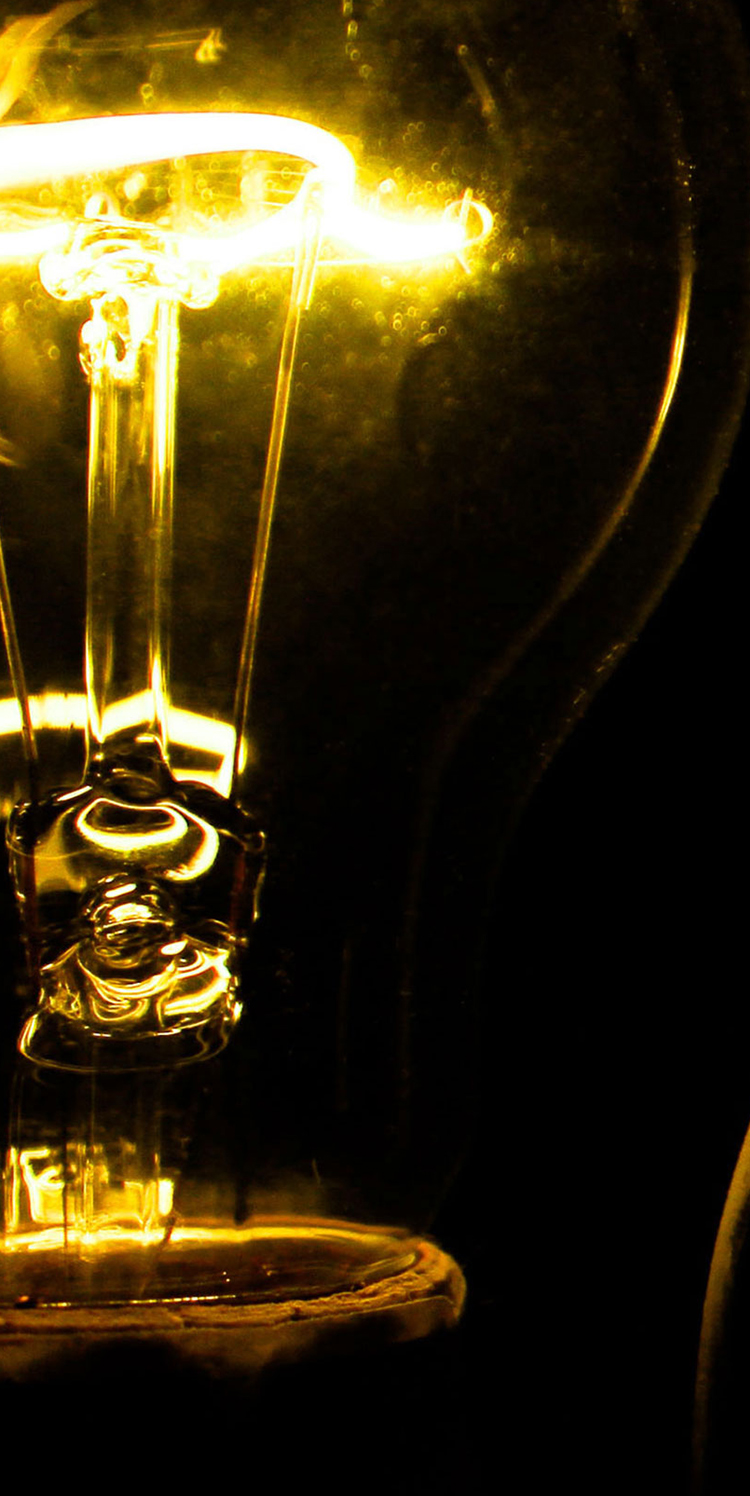
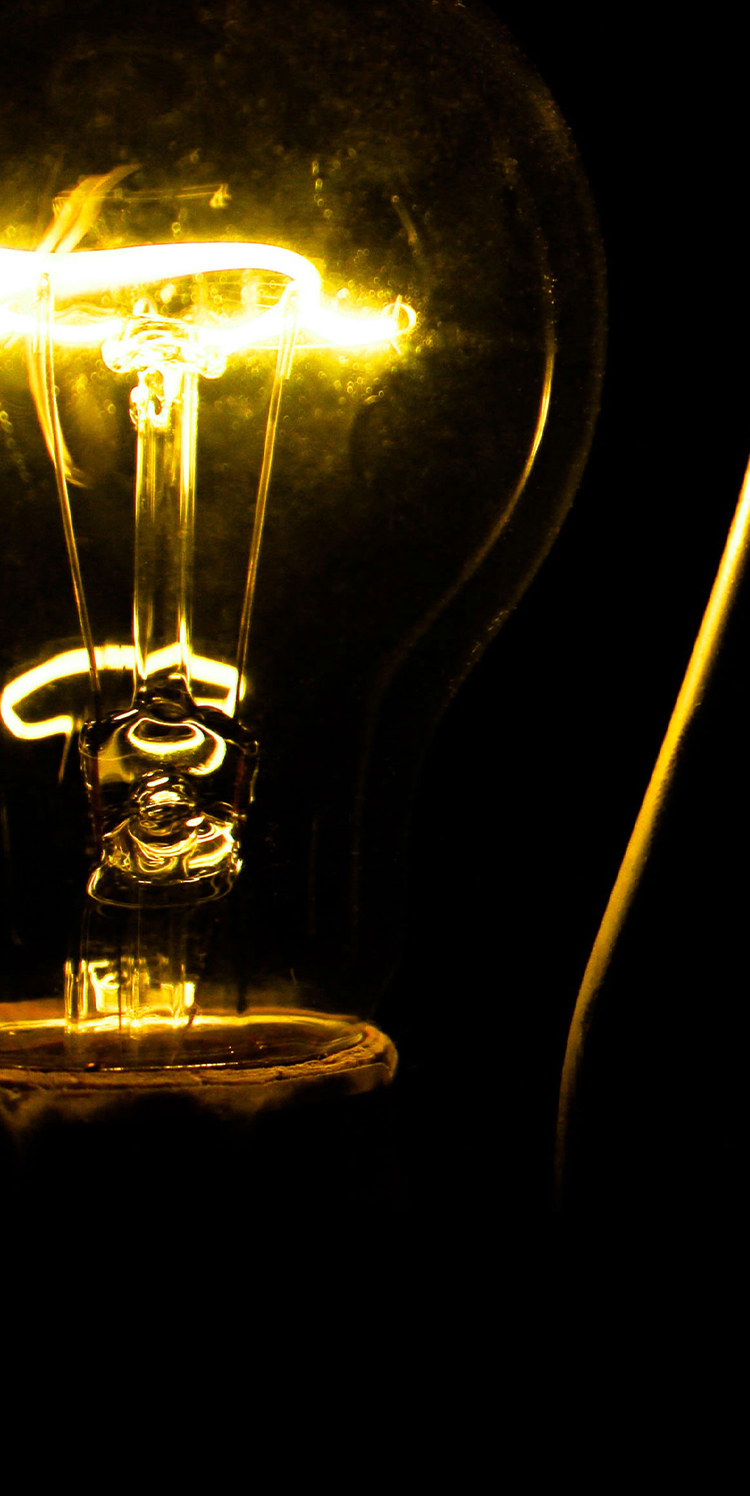
Swapping Mobile Hero

diff --git a/css/style.css b/css/style.css
@@ -1,1 +1,1 @@
-html{box-sizing:border-box;font-size:62.5%;overflow-x:hidden}@media only screen and (max-width: 75em){html{font-size:56.25%}}@media only screen and (max-width: 56.25em){html{font-size:50%}}*,*::before,*::after{box-sizing:inherit}::selection{background:#a7a7a7}body{font-family:'Montserrat', sans-serif;font-weight:400;line-height:1.6;color:#f5f5f7;background-color:#000;overflow-x:hidden}body,h1,h2,h3,h4,h5,h6,p,ol,ul{margin:0;padding:0}img{max-width:100%;height:auto}section{padding:0 8rem;margin:10rem auto 0 auto;position:relative;max-width:1920px;font-size:1.8rem}@media only screen and (max-width: 100em){section{padding:0 4rem}}@media only screen and (max-width: 56.25em){section{padding:0 3rem}}p:not(:last-child){margin-bottom:2rem}.link{color:#f5f5f7;text-decoration:none;transition:all .3s;position:relative}.link::after{content:"";display:block;position:absolute;width:100%;bottom:0;border-bottom:1.25px solid #fdcd05;transform:scaleX(0);transition:all .25s ease-in-out}@media only screen and (max-width: 75em){.link::after{left:0}}.link:hover::after{transform:scaleX(1)}.heading{text-align:center;text-transform:uppercase}.heading--primary{font-weight:100;font-size:7.2rem}@media only screen and (max-width: 87.5em){.heading--primary{line-height:1.2;margin-bottom:2rem}}.heading--secondary{font-weight:300;font-size:2.4rem}.heading--tertiary{font-weight:200;font-size:3.6rem;position:relative;padding:2rem}.heading--tertiary::after{content:"";position:absolute;bottom:0;left:50%;transform:translateX(-50%);width:10rem;text-align:center;border-bottom:1px solid #666;padding-bottom:2rem;display:inline-block}.heading--quaternary{text-align:left;font-weight:200;font-size:2.4rem}.header{height:100vh;max-width:1920px;margin:0 auto;padding:0 2rem;background-image:url(/Img/hero-main.jpg);background-size:cover;background-position:bottom left;background-repeat:no-repeat;overflow-x:hidden;animation:fade-in 1s ease-out}@media (-webkit-min-device-pixel-ratio: 2), (min-resolution: 192dpi){.header{background-image:url(/Img/hero-main@2x.jpg)}}@media only screen and (max-width: 75em){.header{background-image:linear-gradient(to bottom, rgba(0,0,0,0.6), rgba(0,0,0,0.6)),url(/Img/hero-main-mobile.jpg)}}.header__wrapper{width:60%;height:100%;margin-left:auto;display:flex;flex-direction:column;justify-content:flex-start}@media only screen and (max-width: 87.5em){.header__wrapper{width:57.5%}}@media only screen and (max-width: 75em){.header__wrapper{width:100%}}.header__text{flex:0 0 75%;z-index:10;display:flex;flex-direction:column;justify-content:center;align-items:center;opacity:0;animation:fade-in-up .75s .3s ease-in-out forwards}.header__heading{flex:1 0 100%;align-self:center}.nav{text-align:right;flex:0 0 10%;display:flex;justify-content:center;align-items:center;animation:fade-in 1s ease-out}.nav__list{flex:0 0 60%;display:flex;justify-content:space-around;list-style-type:none;padding:0;transition:all .4s ease-in-out}@media only screen and (max-width: 100em){.nav__list{flex:0 0 75%}}@media only screen and (max-width: 87.5em){.nav__list{flex:0 0 90%}}@media only screen and (max-width: 75em){.nav__list{z-index:20;flex-direction:column;justify-content:center;background-color:rgba(62,62,62,0.975);position:fixed;width:100%;align-self:stretch;height:0;overflow:hidden;visibility:hidden;opacity:0}}.nav__item{font-size:2rem;font-weight:300;text-transform:uppercase}@media only screen and (max-width: 75em){.nav__item{text-align:center;width:100%;margin:1.25rem 0;font-size:3.5rem}}.nav__link{padding-bottom:10px}.nav__icon{display:none;fill:#fff;background-color:transparent;border:none;padding:0;color:#fff;z-index:25;cursor:pointer}.nav__icon:active{outline:none}.nav__icon:hover{fill:rgba(245,245,247,0.75)}@media only screen and (max-width: 75em){.nav__icon{display:flex;flex-direction:column;justify-content:center}}.nav__icon--open{position:absolute;top:3.3rem;right:4.65rem;width:2.75rem;height:2.75rem}@media only screen and (max-width: 56.25em){.nav__icon--open{top:3.25rem;right:3.65rem}}.nav__icon--open svg{transition:fill .2s}.nav__icon--close{position:fixed;width:3.7rem;height:3.7rem;right:4rem;top:3.25rem;visibility:hidden}@media only screen and (max-width: 56.25em){.nav__icon--close{top:3.25rem;right:3.1rem}}.nav__icon--close line{stroke:currentColor;stroke-width:5;transition:stroke .2s}.nav__icon--close:hover line{stroke:rgba(245,245,247,0.75)}@media only screen and (max-width: 37.5em){.section--story{margin-top:15rem}}.story{padding:4rem 0;display:flex;flex-flow:row wrap;align-items:center;justify-content:center}.story__text,.story__roc{padding:3rem}@media only screen and (max-width: 56.25em){.story__text,.story__roc{padding:3rem 0}}.story__text{flex:0 0 45%}@media only screen and (max-width: 87.5em){.story__text{flex:0 0 50%}}@media only screen and (max-width: 56.25em){.story__text{flex:0 0 100%}}.story__roc{flex:0 0 28%;text-align:center}@media only screen and (max-width: 87.5em){.story__roc{flex:0 0 37%}}@media only screen and (max-width: 56.25em){.story__roc{flex:0 0 100%}}.story__roc p{font-size:2.4rem;padding:2.5rem 5rem;font-weight:200}@media only screen and (max-width: 56.25em){.story__roc p{width:45%;margin-left:auto;margin-right:auto}}@media only screen and (max-width: 37.5em){.story__roc p{width:90%}}.story__roc span.zero{display:inline-block;font-weight:100;font-size:20rem;line-height:.8;margin-bottom:1.5rem}.story__roc span.twenty{font-weight:500}.section--services{background-image:url(/Img/our-services-bg.jpg);background-size:cover;background-position:top center;background-repeat:no-repeat;z-index:10}@media only screen and (max-width: 56.25em){.section--services{padding:0;background-position:top right}}@media only screen and (max-width: 37.5em){.section--services{background-image:url(/Img/our-services-bg-mobile.jpg)}}.services{padding:4rem 4rem 6rem;width:36%;margin-left:10%;margin-right:auto;background-image:linear-gradient(to bottom, rgba(0,0,0,0.75), rgba(0,0,0,0.75));display:flex;flex-direction:column;justify-content:center}@media only screen and (max-width: 87.5em){.services{width:43%;margin-left:8%}}@media only screen and (max-width: 75em){.services{width:50%;margin-left:4%}}@media only screen and (max-width: 56.25em){.services{width:100%;margin-left:0;padding:4rem 3rem 8rem}}.services p:first-of-type{padding-top:5rem}.section--staff{margin-top:6rem}.staff{padding:5rem 0 4rem 0;display:flex;flex-flow:row wrap;justify-content:space-around}@supports (justify-content: space-evenly){.staff{justify-content:space-evenly}}@media only screen and (max-width: 56.25em){.staff{padding:5rem 0 4rem}}.staff__employee,.success__message{padding:3.75rem;display:flex;flex-direction:column;align-items:center;flex:0 0 30%;border-radius:5px;box-shadow:inset 0 2px 2px rgba(255,255,255,0.1),0 2px 0 rgba(255,255,255,0.2),inset 0 0 1.5rem rgba(255,255,255,0.1);background-image:linear-gradient(to bottom, rgba(255,255,255,0.06), rgba(255,255,255,0.06))}@media only screen and (max-width: 56.25em){.staff__employee:not(:last-child),.success__message:not(:last-child){margin-bottom:6rem}}@media only screen and (max-width: 100em){.staff__employee,.success__message{flex:0 0 40%}}@media only screen and (max-width: 56.25em){.staff__employee,.success__message{flex:0 0 100%;padding:3.5rem 2rem}}.staff__image{border-radius:50%;width:15rem;height:15rem;margin-bottom:2rem;border:1rem solid transparent;box-shadow:0 0 0 1.5px #666}.staff__title{position:relative;text-align:center;padding-bottom:2rem}.staff__title::after{content:"";position:absolute;bottom:0;left:50%;transform:translateX(-50%);width:7rem;text-align:center;border-bottom:1px solid #666;padding-bottom:2rem;display:inline-block}.staff__description{max-width:100%}.section--contact{background-image:linear-gradient(110deg, rgba(255,255,255,0.7) 0%, rgba(255,255,255,0.7) 60%, transparent 60.1%),url(/Img/contact-us-bg.jpg);background-size:cover;background-position:right}@media only screen and (max-width: 56.25em){.section--contact{background-image:linear-gradient(110deg, rgba(255,255,255,0.825) 0%, rgba(255,255,255,0.825) 100%),url(/Img/contact-us-bg.jpg);background-position:right center}}.contact{width:50%;padding:4rem}@media only screen and (max-width: 56.25em){.contact{width:100%;padding:1rem 0}}.contact__heading{color:#3e3e3e;font-weight:300;margin-bottom:5.5rem}@media only screen and (max-width: 56.25em){.contact__heading{margin-bottom:3.5rem}}.contact__label{color:#3e3e3e;font-size:2rem;text-transform:uppercase}.contact__input,.contact__textarea{display:block;font-family:'Montserrat', sans-serif;font-size:1.8rem;margin-bottom:4.5rem;padding:1.5rem 2rem;background-color:transparent;border:2px solid #3e3e3e;border-radius:2px;width:100%;max-width:100%;transition:all .3s}.contact__input:focus{outline:none;border-bottom:3px solid #55c57a;box-shadow:0 1rem 2rem rgba(0,0,0,0.1)}.contact__input:focus:invalid{border-bottom:3px solid #ff7730}.contact__textarea{height:15rem;font-family:'Montserrat', sans-serif}.contact__textarea:focus{border:3px solid #3e3e3e;box-shadow:0 1rem 2rem rgba(0,0,0,0.1)}.contact__submit{background-color:transparent;font-family:'Montserrat', sans-serif;padding:1.5rem 6rem;margin-bottom:3rem;border-radius:100px;border:2px solid #3e3e3e;cursor:pointer;text-transform:uppercase;text-align:center;-webkit-appearance:none;transition:all .3s}@media only screen and (max-width: 56.25em){.contact__submit{width:20rem;margin:4rem auto;display:block}}.contact__submit:hover,.contact__submit:active{border:2px solid #666;background-color:#666;color:#f5f5f7;outline:none}.contact__submit:focus{border-radius:0}.success{height:85vh;background-color:#000;text-align:center;display:flex;align-items:center;justify-content:center;padding:2rem}.success__message{animation:fade-in 1s ease-out}.success__link{text-transform:uppercase;padding-bottom:1rem}.nav-active{visibility:visible;opacity:1;height:100vh}.light-streak{z-index:5;position:absolute;animation:fade-in 1s ease-out;width:15rem}@media only screen and (max-width: 56.25em){.light-streak{width:10rem;z-index:0}}@media only screen and (max-width: 37.5em){.light-streak{width:8rem}}.light-streak--1{top:-50rem;right:19rem;transform:rotate(-65deg)}@media only screen and (max-width: 87.5em){.light-streak--1{top:-40rem}}@media only screen and (max-width: 75em){.light-streak--1{right:5rem;top:-25rem}}@media only screen and (max-width: 56.25em){.light-streak--1{right:8rem;top:-20rem}}@media only screen and (max-width: 37.5em){.light-streak--1{right:7rem;top:-25rem}}.light-streak--2{bottom:-20rem;left:-5rem;transform:rotate(-65deg)}@media only screen and (max-width: 87.5em){.light-streak--2{bottom:-25rem;left:-12rem}}@media only screen and (max-width: 56.25em){.light-streak--2{bottom:-15rem;left:12rem}}@media only screen and (max-width: 37.5em){.light-streak--2{bottom:-18rem;left:7rem}}.text-center{text-align:center !important}.fade{transition:opacity .75s ease-in-out, transform .75s ease-in-out, background-color .3s ease-in-out, color .3s ease-in-out, border .3s ease-in-out}.fadeFromTop{opacity:0;transform:translateY(-2rem)}.fadeFromTopVisible{transform:translateY(0);opacity:1}.fadeFromLeft{opacity:0;transform:translateX(-2rem)}.fadeFromLeftVisible{transform:translateX(0);opacity:1}div.fadeDelayShort{transition:opacity .75s .4s ease-in, transform .75s .4s ease-in, background-color .3s ease-in-out, color .3s ease-in-out, border .3s ease-in-out}@media only screen and (max-width: 56.25em){div.fadeDelayShort{transition:opacity .75s ease-in, transform .75s ease-in, background-color .3s ease-in-out, color .3s ease-in-out, border .3s ease-in-out}}div.fadeDelayLong{transition:opacity .75s .6s ease-in, transform .75s .6s ease-in, background-color .3s ease-in-out, color .3s ease-in-out, border .3s ease-in-out}@media only screen and (max-width: 56.25em){div.fadeDelayLong{transition:opacity .75s ease-in, transform .75s ease-in, background-color .3s ease-in-out, color .3s ease-in-out, border .3s ease-in-out}}@keyframes fade-in{0%{opacity:0}100%{opacity:1}}@keyframes fade-in-up{0%{opacity:0;transform:translateY(2rem)}100%{opacity:1;transform:translateY(0)}}.footer{display:flex;flex-direction:column;align-items:center;text-align:center;font-size:1.6rem;padding:4rem}@media only screen and (max-width: 56.25em){.footer{padding:3rem}}.footer__logo{width:17rem;display:block;height:auto;margin-bottom:4rem}.footer__text:not(:last-child){margin-bottom:1rem}.footer__text:last-child{color:rgba(245,245,247,0.6);font-size:1.2rem}
+html{box-sizing:border-box;font-size:62.5%;overflow-x:hidden}@media only screen and (max-width: 75em){html{font-size:56.25%}}@media only screen and (max-width: 56.25em){html{font-size:50%}}*,*::before,*::after{box-sizing:inherit}::selection{background:#a7a7a7}body{font-family:'Montserrat', sans-serif;font-weight:400;line-height:1.6;color:#f5f5f7;background-color:#000;overflow-x:hidden}body,h1,h2,h3,h4,h5,h6,p,ol,ul{margin:0;padding:0}img{max-width:100%;height:auto}section{padding:0 8rem;margin:10rem auto 0 auto;position:relative;max-width:1920px;font-size:1.8rem}@media only screen and (max-width: 100em){section{padding:0 4rem}}@media only screen and (max-width: 56.25em){section{padding:0 3rem}}p:not(:last-child){margin-bottom:2rem}.link{color:#f5f5f7;text-decoration:none;transition:all .3s;position:relative}.link::after{content:"";display:block;position:absolute;width:100%;bottom:0;border-bottom:1.25px solid #fdcd05;transform:scaleX(0);transition:all .25s ease-in-out}@media only screen and (max-width: 75em){.link::after{left:0}}.link:hover::after{transform:scaleX(1)}.heading{text-align:center;text-transform:uppercase}.heading--primary{font-weight:100;font-size:7.2rem}@media only screen and (max-width: 87.5em){.heading--primary{line-height:1.2;margin-bottom:2rem}}.heading--secondary{font-weight:300;font-size:2.4rem}.heading--tertiary{font-weight:200;font-size:3.6rem;position:relative;padding:2rem}.heading--tertiary::after{content:"";position:absolute;bottom:0;left:50%;transform:translateX(-50%);width:10rem;text-align:center;border-bottom:1px solid #666;padding-bottom:2rem;display:inline-block}.heading--quaternary{text-align:left;font-weight:200;font-size:2.4rem}.header{height:100vh;max-width:1920px;margin:0 auto;padding:0 2rem;background-image:url(/Img/hero-main.jpg);background-size:cover;background-position:bottom left;background-repeat:no-repeat;overflow-x:hidden;animation:fade-in 1s ease-out}@media (-webkit-min-device-pixel-ratio: 2), (min-resolution: 192dpi){.header{background-image:url(/Img/hero-main@2x.jpg)}}@media only screen and (max-width: 75em){.header{background-image:linear-gradient(to bottom, rgba(0,0,0,0.6), rgba(0,0,0,0.6)),url(/Img/hero-main-mobile.jpg);background-position:top}}.header__wrapper{width:60%;height:100%;margin-left:auto;display:flex;flex-direction:column;justify-content:flex-start}@media only screen and (max-width: 87.5em){.header__wrapper{width:57.5%}}@media only screen and (max-width: 75em){.header__wrapper{width:100%}}.header__text{flex:0 0 75%;z-index:10;display:flex;flex-direction:column;justify-content:center;align-items:center;opacity:0;animation:fade-in-up .75s .3s ease-in-out forwards}.header__heading{flex:1 0 100%;align-self:center}.nav{text-align:right;flex:0 0 10%;display:flex;justify-content:center;align-items:center;animation:fade-in 1s ease-out}.nav__list{flex:0 0 60%;display:flex;justify-content:space-around;list-style-type:none;padding:0;transition:all .4s ease-in-out}@media only screen and (max-width: 100em){.nav__list{flex:0 0 75%}}@media only screen and (max-width: 87.5em){.nav__list{flex:0 0 90%}}@media only screen and (max-width: 75em){.nav__list{z-index:20;flex-direction:column;justify-content:center;background-color:rgba(62,62,62,0.975);position:fixed;width:100%;align-self:stretch;height:0;overflow:hidden;visibility:hidden;opacity:0}}.nav__item{font-size:2rem;font-weight:300;text-transform:uppercase}@media only screen and (max-width: 75em){.nav__item{text-align:center;width:100%;margin:1.25rem 0;font-size:3.5rem}}.nav__link{padding-bottom:10px}.nav__icon{display:none;fill:#fff;background-color:transparent;border:none;padding:0;color:#fff;z-index:25;cursor:pointer}.nav__icon:active{outline:none}.nav__icon:hover{fill:rgba(245,245,247,0.75)}@media only screen and (max-width: 75em){.nav__icon{display:flex;flex-direction:column;justify-content:center}}.nav__icon--open{position:absolute;top:3.3rem;right:4.65rem;width:2.75rem;height:2.75rem}@media only screen and (max-width: 56.25em){.nav__icon--open{top:3.25rem;right:3.65rem}}.nav__icon--open svg{transition:fill .2s}.nav__icon--close{position:fixed;width:3.7rem;height:3.7rem;right:4rem;top:3.25rem;visibility:hidden}@media only screen and (max-width: 56.25em){.nav__icon--close{top:3.25rem;right:3.1rem}}.nav__icon--close line{stroke:currentColor;stroke-width:5;transition:stroke .2s}.nav__icon--close:hover line{stroke:rgba(245,245,247,0.75)}.story{padding:4rem 0;display:flex;flex-flow:row wrap;align-items:center;justify-content:center}.story__text,.story__roc{padding:3rem}@media only screen and (max-width: 56.25em){.story__text,.story__roc{padding:3rem 0}}.story__text{flex:0 0 45%}@media only screen and (max-width: 87.5em){.story__text{flex:0 0 50%}}@media only screen and (max-width: 56.25em){.story__text{flex:0 0 100%}}.story__roc{flex:0 0 28%;text-align:center}@media only screen and (max-width: 87.5em){.story__roc{flex:0 0 37%}}@media only screen and (max-width: 56.25em){.story__roc{flex:0 0 100%}}.story__roc p{font-size:2.4rem;padding:2.5rem 5rem;font-weight:200}@media only screen and (max-width: 56.25em){.story__roc p{width:45%;margin-left:auto;margin-right:auto}}@media only screen and (max-width: 37.5em){.story__roc p{width:90%}}.story__roc span.zero{display:inline-block;font-weight:100;font-size:20rem;line-height:.8;margin-bottom:1.5rem}.story__roc span.twenty{font-weight:500}.section--services{background-image:url(/Img/our-services-bg.jpg);background-size:cover;background-position:top center;background-repeat:no-repeat;z-index:10}@media only screen and (max-width: 56.25em){.section--services{padding:0;background-position:top right}}@media only screen and (max-width: 37.5em){.section--services{background-image:url(/Img/our-services-bg-mobile.jpg)}}.services{padding:4rem 4rem 6rem;width:36%;margin-left:10%;margin-right:auto;background-image:linear-gradient(to bottom, rgba(0,0,0,0.75), rgba(0,0,0,0.75));display:flex;flex-direction:column;justify-content:center}@media only screen and (max-width: 87.5em){.services{width:43%;margin-left:8%}}@media only screen and (max-width: 75em){.services{width:50%;margin-left:4%}}@media only screen and (max-width: 56.25em){.services{width:100%;margin-left:0;padding:4rem 3rem 8rem}}.services p:first-of-type{padding-top:5rem}.section--staff{margin-top:6rem}.staff{padding:5rem 0 4rem 0;display:flex;flex-flow:row wrap;justify-content:space-around}@supports (justify-content: space-evenly){.staff{justify-content:space-evenly}}@media only screen and (max-width: 56.25em){.staff{padding:5rem 0 4rem}}.staff__employee,.success__message{padding:3.75rem;display:flex;flex-direction:column;align-items:center;flex:0 0 30%;border-radius:5px;box-shadow:inset 0 2px 2px rgba(255,255,255,0.1),0 2px 0 rgba(255,255,255,0.2),inset 0 0 1.5rem rgba(255,255,255,0.1);background-image:linear-gradient(to bottom, rgba(255,255,255,0.06), rgba(255,255,255,0.06))}@media only screen and (max-width: 56.25em){.staff__employee:not(:last-child),.success__message:not(:last-child){margin-bottom:6rem}}@media only screen and (max-width: 100em){.staff__employee,.success__message{flex:0 0 40%}}@media only screen and (max-width: 56.25em){.staff__employee,.success__message{flex:0 0 100%;padding:3.5rem 2rem}}.staff__image{border-radius:50%;width:15rem;height:15rem;margin-bottom:2rem;border:1rem solid transparent;box-shadow:0 0 0 1.5px #666}.staff__title{position:relative;text-align:center;padding-bottom:2rem}.staff__title::after{content:"";position:absolute;bottom:0;left:50%;transform:translateX(-50%);width:7rem;text-align:center;border-bottom:1px solid #666;padding-bottom:2rem;display:inline-block}.staff__description{max-width:100%}.section--contact{background-image:linear-gradient(110deg, rgba(255,255,255,0.7) 0%, rgba(255,255,255,0.7) 60%, transparent 60.1%),url(/Img/contact-us-bg.jpg);background-size:cover;background-position:right}@media only screen and (max-width: 56.25em){.section--contact{background-image:linear-gradient(110deg, rgba(255,255,255,0.825) 0%, rgba(255,255,255,0.825) 100%),url(/Img/contact-us-bg.jpg);background-position:right center}}.contact{width:50%;padding:4rem}@media only screen and (max-width: 56.25em){.contact{width:100%;padding:1rem 0}}.contact__heading{color:#3e3e3e;font-weight:300;margin-bottom:5.5rem}@media only screen and (max-width: 56.25em){.contact__heading{margin-bottom:3.5rem}}.contact__label{color:#3e3e3e;font-size:2rem;text-transform:uppercase}.contact__input,.contact__textarea{display:block;font-family:'Montserrat', sans-serif;font-size:1.8rem;margin-bottom:4.5rem;padding:1.5rem 2rem;background-color:transparent;border:2px solid #3e3e3e;border-radius:2px;width:100%;max-width:100%;transition:all .3s}.contact__input:focus{outline:none;border-bottom:3px solid #55c57a;box-shadow:0 1rem 2rem rgba(0,0,0,0.1)}.contact__input:focus:invalid{border-bottom:3px solid #ff7730}.contact__textarea{height:15rem;font-family:'Montserrat', sans-serif}.contact__textarea:focus{border:3px solid #3e3e3e;box-shadow:0 1rem 2rem rgba(0,0,0,0.1)}.contact__submit{background-color:transparent;font-family:'Montserrat', sans-serif;padding:1.5rem 6rem;margin-bottom:3rem;border-radius:100px;border:2px solid #3e3e3e;cursor:pointer;text-transform:uppercase;text-align:center;-webkit-appearance:none;transition:all .3s}@media only screen and (max-width: 56.25em){.contact__submit{width:20rem;margin:4rem auto;display:block}}.contact__submit:hover,.contact__submit:active{border:2px solid #666;background-color:#666;color:#f5f5f7;outline:none}.contact__submit:focus{border-radius:0}.success{height:85vh;background-color:#000;text-align:center;display:flex;align-items:center;justify-content:center;padding:2rem}.success__message{animation:fade-in 1s ease-out}.success__link{text-transform:uppercase;padding-bottom:1rem}.nav-active{visibility:visible;opacity:1;height:100vh}.light-streak{z-index:5;position:absolute;animation:fade-in 1s ease-out;width:15rem}@media only screen and (max-width: 56.25em){.light-streak{width:10rem;z-index:0}}@media only screen and (max-width: 37.5em){.light-streak{width:8rem}}.light-streak--1{top:-50rem;right:19rem;transform:rotate(-65deg)}@media only screen and (max-width: 87.5em){.light-streak--1{top:-40rem}}@media only screen and (max-width: 75em){.light-streak--1{right:5rem;top:-25rem}}@media only screen and (max-width: 56.25em){.light-streak--1{right:8rem;top:-20rem}}@media only screen and (max-width: 37.5em){.light-streak--1{right:7rem;top:-25rem}}.light-streak--2{bottom:-20rem;left:-5rem;transform:rotate(-65deg)}@media only screen and (max-width: 87.5em){.light-streak--2{bottom:-25rem;left:-12rem}}@media only screen and (max-width: 56.25em){.light-streak--2{bottom:-15rem;left:12rem}}@media only screen and (max-width: 37.5em){.light-streak--2{bottom:-18rem;left:7rem}}.text-center{text-align:center !important}.fade{transition:opacity .75s ease-in-out, transform .75s ease-in-out, background-color .3s ease-in-out, color .3s ease-in-out, border .3s ease-in-out}.fadeFromTop{opacity:0;transform:translateY(-2rem)}.fadeFromTopVisible{transform:translateY(0);opacity:1}.fadeFromLeft{opacity:0;transform:translateX(-2rem)}.fadeFromLeftVisible{transform:translateX(0);opacity:1}div.fadeDelayShort{transition:opacity .75s .4s ease-in, transform .75s .4s ease-in, background-color .3s ease-in-out, color .3s ease-in-out, border .3s ease-in-out}@media only screen and (max-width: 56.25em){div.fadeDelayShort{transition:opacity .75s ease-in, transform .75s ease-in, background-color .3s ease-in-out, color .3s ease-in-out, border .3s ease-in-out}}div.fadeDelayLong{transition:opacity .75s .6s ease-in, transform .75s .6s ease-in, background-color .3s ease-in-out, color .3s ease-in-out, border .3s ease-in-out}@media only screen and (max-width: 56.25em){div.fadeDelayLong{transition:opacity .75s ease-in, transform .75s ease-in, background-color .3s ease-in-out, color .3s ease-in-out, border .3s ease-in-out}}@keyframes fade-in{0%{opacity:0}100%{opacity:1}}@keyframes fade-in-up{0%{opacity:0;transform:translateY(2rem)}100%{opacity:1;transform:translateY(0)}}.footer{display:flex;flex-direction:column;align-items:center;text-align:center;font-size:1.6rem;padding:4rem}@media only screen and (max-width: 56.25em){.footer{padding:3rem}}.footer__logo{width:17rem;display:block;height:auto;margin-bottom:4rem}.footer__text:not(:last-child){margin-bottom:1rem}.footer__text:last-child{color:rgba(245,245,247,0.6);font-size:1.2rem}

diff --git a/css/style.comp.css b/css/style.comp.css
@@ -119,7 +119,8 @@ p:not(:last-child) {
       background-image: url(/Img/hero-main@2x.jpg); } }
   @media only screen and (max-width: 75em) {
     .header {
-      background-image: linear-gradient(to bottom, rgba(0, 0, 0, 0.6), rgba(0, 0, 0, 0.6)), url(/Img/hero-main-mobile.jpg); } }
+      background-image: linear-gradient(to bottom, rgba(0, 0, 0, 0.6), rgba(0, 0, 0, 0.6)), url(/Img/hero-main-mobile.jpg);
+      background-position: top; } }
   .header__wrapper {
     width: 60%;
     height: 100%;
@@ -238,10 +239,6 @@ p:not(:last-child) {
         transition: stroke .2s; }
       .nav__icon--close:hover line {
         stroke: rgba(245, 245, 247, 0.75); }
-
-@media only screen and (max-width: 37.5em) {
-  .section--story {
-    margin-top: 15rem; } }
 
 .story {
   padding: 4rem 0;

diff --git a/scss/_header.scss b/scss/_header.scss
@@ -17,6 +17,7 @@
     // Add gradient overlay to background for text visibility
     @include respond(tab-land) {
         background-image: linear-gradient(to bottom, rgba(0,0,0, .6), rgba(0,0,0, .6)), url(/Img/hero-main-mobile.jpg);
+        background-position: top;
     }
 
     &__wrapper {

diff --git a/scss/_ourstory.scss b/scss/_ourstory.scss
@@ -1,9 +1,3 @@
-.section--story {
-    @include respond(phone) {
-        margin-top: 15rem;
-    }
-}
-
 .story {
     padding: 4rem 0;
     display: flex;
